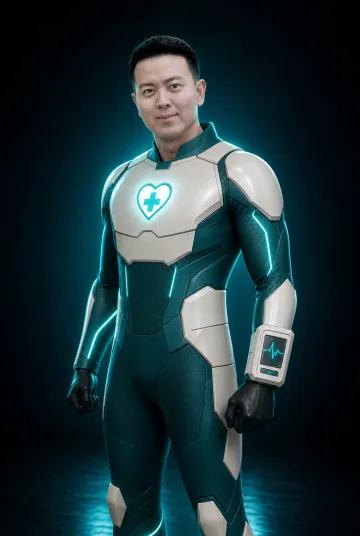
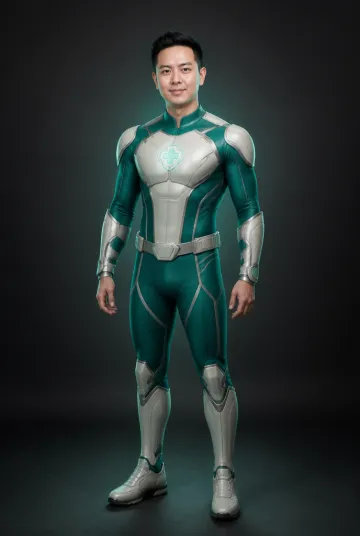
ติ๊กได้ว่าคอมเมนต์ไหนทำไปแล้ว + สคริปต์หาตัวละครเวอร์ชันล่าสุดเอง
ติ๊ก "ทำแล้ว" รายคอมเมนต์
- เพิ่มคอลัมน์ done / done_by / done_at ใน feedback
- PATCH /api/feedback สลับสถานะ พร้อมบันทึกว่าใครติ๊กและเมื่อไหร่
- คอมเมนต์ที่ทำแล้วจะจางลงแต่ยังอ่านได้ ไม่ขีดฆ่า
- มีทั้งหน้ากิจการและ lightbox

สคริปต์แปลงรูป
- หาไฟล์ <slug>-v<เลขมากสุด>.png ให้เอง regen เป็น v4 v5 ต่อไปไม่ต้องแก้ mapping
- แก้ glob ที่พังเพราะ path มีช่องว่าง ต้องครอบเฉพาะส่วนที่มีช่องว่าง
- Joyous: ตัวละคร v3 + รูปเจ้าของใหม่ที่เจ้าตัวส่งมา (ชื่อไฟล์เปลี่ยนเป็น "face 1_")

diff --git a/app/member/[id]/page.js b/app/member/[id]/page.js
@@ -91,6 +91,19 @@ export default function MemberPage({ params }) {
     setComment(""); load();
   };
 
+  // ติ๊กว่าคอมเมนต์นี้ทำไปแล้วหรือยัง
+  const toggleDone = async (f) => {
+    setBusy(true);
+    const r = await fetch("/api/feedback", {
+      method: "PATCH",
+      headers: { "content-type": "application/json" },
+      body: JSON.stringify({ id: f.id, done: !f.done, author: getMe() }),
+    }).then((x) => x.json());
+    setBusy(false);
+    if (r.error) return setMsg({ t: "err", m: r.error });
+    load();
+  };
+
   // ปุ่มผ่าน/ยังไม่ผ่าน — กดสลับไปมาได้
   // ถ้ามีเวอร์ชันที่ผ่านอยู่แล้วให้ปุ่มคุมตัวนั้น ถ้ายังไม่มีให้คุมเวอร์ชันล่าสุด
   const approvedClip = m.clips.find((c) => c.status === "approved");
@@ -193,12 +206,23 @@ export default function MemberPage({ params }) {
 
             <div style={{ marginTop: 14 }}>
               {m.feedback.map((f) => (
-                <div className="fb" key={f.id}>
+                <div className={`fb ${f.done ? "isdone" : ""}`} key={f.id}>
                   <div className="who">
                     {f.author} · {new Date(f.created_at).toLocaleString("th-TH")}{" "}
                     {f.vote === "ok" ? "👍" : f.vote === "revise" ? "🔧" : ""}
                   </div>
                   {f.message}
+                  <div className="fb-done">
+                    <button className={`dn ${f.done ? "on" : ""}`} disabled={busy} onClick={() => toggleDone(f)}>
+                      {f.done ? "☑ ทำแล้ว" : "☐ ยังไม่ได้ทำ"}
+                    </button>
+                    {f.done && f.done_by && (
+                      <span className="dimtext">
+                        โดย {f.done_by}
+                        {f.done_at ? ` · ${new Date(f.done_at).toLocaleString("th-TH")}` : ""}
+                      </span>
+                    )}
+                  </div>
                 </div>
               ))}
             </div>

diff --git a/app/lightbox.js b/app/lightbox.js
@@ -56,6 +56,18 @@ export default function Lightbox({ member, onClose, onChanged }) {
     onChanged?.();
   };
 
+  const toggleDone = async (f) => {
+    setBusy(true); setErr("");
+    const r = await fetch("/api/feedback", {
+      method: "PATCH",
+      headers: { "content-type": "application/json" },
+      body: JSON.stringify({ id: f.id, done: !f.done, author: getMe() }),
+    }).then((x) => x.json()).catch((e) => ({ error: String(e) }));
+    setBusy(false);
+    if (r.error) return setErr(r.error);
+    onChanged?.();
+  };
+
   const removeFeedback = async (id) => {
     setBusy(true); setErr("");
     const r = await fetch(`/api/feedback?id=${id}`, { method: "DELETE" })
@@ -159,7 +171,7 @@ export default function Lightbox({ member, onClose, onChanged }) {
           <div className="lb-sub">ประวัติ ({history.length})</div>
           {history.length === 0 && <div className="dimtext">ยังไม่มีใครคอมเมนต์</div>}
           {history.map((f) => (
-            <div className="fb" key={f.id}>
+            <div className={`fb ${f.done ? "isdone" : ""}`} key={f.id}>
               <div className="who">
                 {f.author}
                 {f.clip_id && verOf[f.clip_id] ? ` · v${verOf[f.clip_id]}` : ""} ·{" "}
@@ -172,6 +184,17 @@ export default function Lightbox({ member, onClose, onChanged }) {
                 )}
               </div>
               {f.message}
+              <div className="fb-done">
+                <button className={`dn ${f.done ? "on" : ""}`} disabled={busy} onClick={() => toggleDone(f)}>
+                  {f.done ? "☑ ทำแล้ว" : "☐ ยังไม่ได้ทำ"}
+                </button>
+                {f.done && f.done_by && (
+                  <span className="dimtext">
+                    โดย {f.done_by}
+                    {f.done_at ? ` · ${new Date(f.done_at).toLocaleString("th-TH")}` : ""}
+                  </span>
+                )}
+              </div>
             </div>
           ))}
         </div>

diff --git a/app/api/feedback/route.js b/app/api/feedback/route.js
@@ -25,6 +25,27 @@ export async function POST(req) {
   }
 }
 
+// ติ๊กว่าคอมเมนต์นี้ทำไปแล้วหรือยัง — กดสลับไปมาได้
+export async function PATCH(req) {
+  try {
+    const { id, done, author } = await req.json();
+    if (!id) return Response.json({ error: "ต้องระบุคอมเมนต์" }, { status: 400 });
+    const who = (author || "").trim().slice(0, 60);
+
+    const [row] = await sql`
+      update feedback set
+        done    = ${!!done},
+        done_by = ${done ? who || null : null},
+        done_at = ${done ? new Date().toISOString() : null}
+      where id = ${Number(id)}
+      returning *`;
+    if (!row) return Response.json({ error: "ไม่พบคอมเมนต์นี้" }, { status: 404 });
+    return Response.json({ ok: true, feedback: row });
+  } catch (e) {
+    return Response.json({ error: String(e.message || e) }, { status: 500 });
+  }
+}
+
 export async function DELETE(req) {
   try {
     const id = new URL(req.url).searchParams.get("id");

diff --git a/app/globals.css b/app/globals.css
@@ -327,6 +327,16 @@ video { width: 100%; border-radius: 11px; background: #000; display: block; }
 .fb { border-top: 1px solid var(--line); padding: 11px 0; }
 .fb:first-of-type { border-top: none; }
 .fb .who { color: var(--dim); margin-bottom: 3px; }
+/* คอมเมนต์ที่จัดการไปแล้ว — จางลงแต่ยังอ่านออก ไม่ต้องขีดฆ่าให้อ่านยาก */
+.fb.isdone { opacity: .62; }
+
+.fb-done { display: flex; align-items: center; gap: 10px; flex-wrap: wrap; margin-top: 7px; }
+.dn {
+  background: transparent; border: 1px solid var(--line); color: var(--dim);
+  border-radius: 8px; padding: 3px 12px; font-weight: 500; cursor: pointer; font-family: inherit;
+}
+.dn:hover:not(:disabled) { border-color: #3d465e; color: var(--text); }
+.dn.on { background: #10331d; border-color: #1f6b39; color: #6ee7a0; }
 
 table { width: 100%; border-collapse: collapse; }
 th, td { text-align: left; padding: 9px 11px; border-bottom: 1px solid var(--line); vertical-align: top; }
